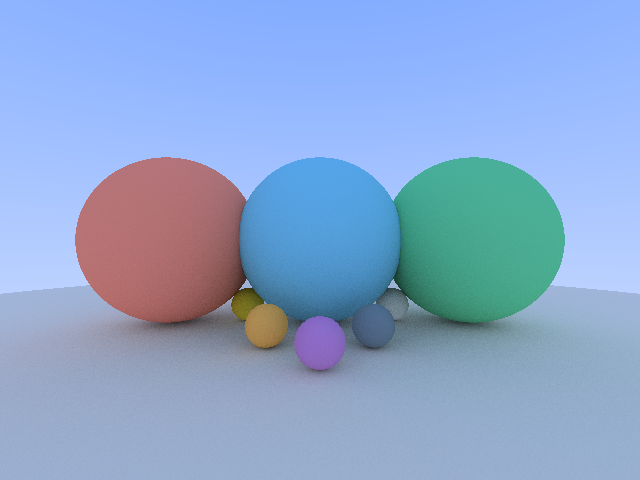
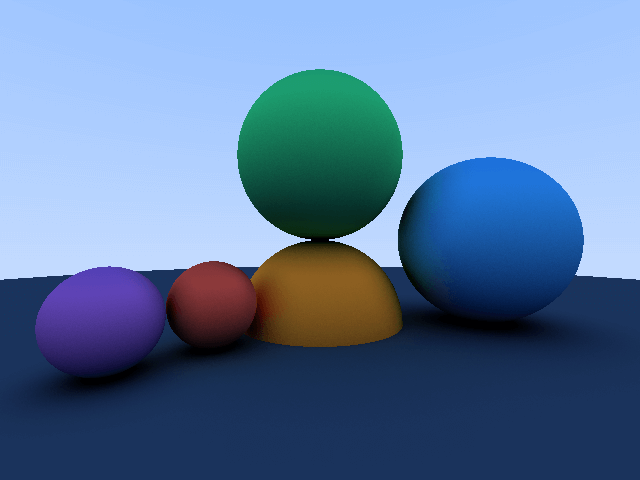
Refactor

diff --git a/main.c b/main.c
@@ -16,14 +16,32 @@
 #define VPORT_HEIGHT (VPORT_WIDTH/ASPECT_RATIO)
 
 #define FOCAL_LENGTH 1.0
-#define SAMPLES_PER_PIXEL 500
-#define MAX_HITS 5
+#define SAMPLES_PER_PIXEL 1000
+#define MAX_DEPTH 100
 
 #define ARR_LEN(a) (sizeof(a)/sizeof(a[0]))
 
 #define COLOR_R(hex) ((hex>>16)&0xFF)
 #define COLOR_G(hex) ((hex>> 8)&0xFF)
 #define COLOR_B(hex) ((hex>> 0)&0xFF)
+
+#define COLOR_TO_VEC3(r, g, b) ((Vec3){.x=r,.y=g,.z=b})
+#define HEX_TO_VEC3(hex) COLOR_TO_VEC3(COLOR_R(hex)/255.0,COLOR_G(hex)/255.0,COLOR_B(hex)/255.0)
+#define COLOR_BLACK COLOR_TO_VEC3(0.0,0.0,0.0)
+#define COLOR_WHITE COLOR_TO_VEC3(1.0,1.0,1.0)
+#define COLOR_RED COLOR_TO_VEC3(1.0,0.0,0.0)
+#define COLOR_GREEN COLOR_TO_VEC3(0.0,1.0,0.0)
+#define COLOR_BLUE COLOR_TO_VEC3(0.0,0.0,1.0)
+
+#define COLOR_EMERALD HEX_TO_VEC3(0x2ecc71)
+#define COLOR_CARROT HEX_TO_VEC3(0xe67e22)
+#define COLOR_PETER_RIVER HEX_TO_VEC3(0x3498db)
+#define COLOR_ALIZARIN HEX_TO_VEC3(0xe74c3c)
+#define COLOR_WET_ASPHALT HEX_TO_VEC3(0x34495e)
+#define COLOR_AMETHYST HEX_TO_VEC3(0x9b59b6)
+
+#define make_sphere(_x, _y, _z, r, c) ((Sphere){.center=(Vec3){.x=_x,.y=_y,.z=_z},.radius=r,.color=c})
+#define make_hittable(o, t) ((Hittable){.obj=o,.type=t})
 
 #define EPSILON 0.0000001
 
@@ -43,105 +61,139 @@ void ray_print(Ray r) {
     );
 }
 
+Vec3 random_in_unit_sphere() {
+    while (true) {
+        Vec3 v =  vec3_random(-1.0, 1.0);
+        if (vec3_len_sqr(v) < 1) {
+            return v;
+        }
+    }
+}
+
+Vec3 random_unit_vector() {
+    return vec3_as_unit(random_in_unit_sphere());
+}
+
+Vec3 random_on_surface(Vec3 normal) {
+    Vec3 v = random_unit_vector();
+    if (vec3_dot(v, normal) > 0.0) {
+        // In the same hemisphere as normal
+        return v;
+    } else {
+        return vec3_mult(v, -1.0);
+    }
+}
+
 typedef struct {
     Vec3 center;
-    double r;
-    uint32_t color;
+    double radius;
+    Vec3 color;
 } Sphere;
 
-#define make_sphere(_x, _y, _z, _r, _c) (Sphere){.center=(Vec3){.x=_x, .y=_y, .z=_z}, .r=_r, .color=_c}
+typedef enum {
+    SPHERE
+} HittableType;
 
-Vec3 vec3_random_unit() {
-    return vec3_as_unit(vec3_random(-1.0, 1.0));
-}
+typedef struct {
+    HittableType type;
+    void* obj;
+} Hittable;
 
-Vec3 vec3_on_surface(Vec3 v, Vec3 n) {
-    if (vec3_dot(v, n) > 0.0) return v;
-    return vec3_mult(v, -1.0);
-}
+typedef struct {
+    Hittable **hittables;
+    size_t count;
+} Hittables;
 
-Vec3 vec3_random_unit_on_surface(Vec3 n) {
-    return vec3_on_surface(vec3_random_unit(), n);
-}
+typedef struct {
+    Vec3 point; // Hit point
+    Vec3 normal; // Hit normal
+    double t; // Distance from ray origin
+    Hittable *hittable;
+} HitRecord;
 
-Vec3 vec3_color_blend(Vec3 a, Vec3 b) {
-    Vec3 r;
-    r.x = sqrt(a.x * b.x);
-    r.y = sqrt(a.y * b.y);
-    r.z = sqrt(a.z * b.z);
-    return r;
-}
+bool hit_sphere(Sphere *sphere, Ray *ray, HitRecord *hit_record, double t_min, double t_max) {
+    Vec3 oc = vec3_sub(ray->origin, sphere->center);
+    double a = vec3_len_sqr(ray->direction);
+    double half_b = vec3_dot(oc, ray->direction);
+    double c = vec3_len_sqr(oc) - (sphere->radius * sphere->radius);
+    double discriminant = half_b*half_b - a*c;
+    if (discriminant < 0) return false;
 
-bool hit_sphere(Sphere sphere, Ray ray, RayHit *ray_hit) {
-    Vec3 oc = vec3_sub(ray.origin, sphere.center);
-    double a = vec3_dot(ray.direction, ray.direction);
-    double b = 2.0 * vec3_dot(oc, ray.direction);
-    double c = vec3_dot(oc, oc) - sphere.r * sphere.r;
-    // discriminant
-    double d = b * b - 4 * a * c;
-
-    if (d < EPSILON) {
+    double sqrt_d = sqrt(discriminant);
+    double t1 = (-half_b - sqrt_d)/a;
+    double t2 = (-half_b + sqrt_d)/a;
+    if (t_min <= t1 && t1 <= t_max && t_min <= t2 && t2 <= t_max) {
+        // Both t within range
+        hit_record->t = t1 < t2 ? t1 : t2;
+    } else if (t_min <= t1 && t1 <= t_max) {
+        // Only t1 in range
+        hit_record->t = t1;
+    } else if (t_min <= t2 && t2 <= t_max) {
+        // Only t2 in range
+        hit_record->t = t2;
+    } else {
+        // Neither t1, nor t2 is in range
         return false;
     }
-    // distance on ray
-    double t = (-b - sqrt(d)) / (2.0 * a);
-    if (t < EPSILON) {
-        return false;
+
+    hit_record->point = ray_at(*ray, hit_record->t);
+    Vec3 outward_normal = vec3_div(vec3_sub(hit_record->point, sphere->center), sphere->radius);
+    if (vec3_dot(ray->direction, outward_normal) < 0) {
+        // Ray hitting from outside
+        hit_record->normal = outward_normal;
+    } else {
+        // Ray hitting from inside
+        hit_record->normal = vec3_mult(outward_normal, -1.0);
     }
-
-    // point on ray
-    ray_hit->t = t;
-    ray_hit->point = ray_at(ray, t);
-    // hit normal facing outwards
-    ray_hit->normal = vec3_div(vec3_sub(ray_hit->point, sphere.center), sphere.r);
-    // ray should be hitting outside of the sphere
-    assert(vec3_dot(ray.direction, ray_hit->normal) < 0.0);
-
     return true;
 }
 
-Vec3 get_ray_color(Ray ray, Sphere spheres[], size_t spheres_n, size_t max_hits) {
-    if (max_hits == 0) {
-        return (Vec3){.x=0.0, .y=0.0, .z=0.0};
+bool hit_one(Hittable* hittable, Ray *ray, HitRecord *hit_record, double t_min, double t_max) {
+    switch (hittable->type)
+    {
+    case SPHERE:
+        return hit_sphere((Sphere*)hittable->obj, ray, hit_record, t_min, t_max);
     }
-    RayHit ray_hit;
-    size_t sphere_i;
-    bool hit = false;
-    for (size_t i = 0; i < spheres_n; ++i) {
-        RayHit tmp_ray_hit;
-        if (hit_sphere(spheres[i], ray, &tmp_ray_hit)) {
-            if (!hit || tmp_ray_hit.t < ray_hit.t) {
-                ray_hit.t = tmp_ray_hit.t;
-                ray_hit.normal = tmp_ray_hit.normal;
-                ray_hit.point = tmp_ray_hit.point;
-                hit = true;
-                sphere_i = i;
-            }
+    exit(1);
+}
+
+bool hit(Hittables *hittables, Ray *ray, HitRecord *hit_record, double t_min, double t_max) {
+    HitRecord tmp_hit_record;
+    double closest = t_max;
+    bool did_hit = false;
+    for (size_t i = 0; i < hittables->count; ++i) {
+        Hittable *hittable = hittables->hittables[i];
+        if (hit_one(hittable, ray, &tmp_hit_record, t_min, closest)) {
+            did_hit = true;
+            hit_record->normal = tmp_hit_record.normal;
+            hit_record->point = tmp_hit_record.point;
+            hit_record->t = tmp_hit_record.t;
+            hit_record->hittable = hittable;
+            closest = tmp_hit_record.t;
         }
     }
+    return did_hit;
+}
 
-    if (hit) {
-        Vec3 my_color = (Vec3) {
-            // .x=0.5 * (ray_hit.normal.x + 1),
-            // .y=0.5 * (ray_hit.normal.y + 1),
-            // .z=0.5 * (ray_hit.normal.z + 1),
-            .x=COLOR_R(spheres[sphere_i].color)/255.0,
-            .y=COLOR_G(spheres[sphere_i].color)/255.0,
-            .z=COLOR_B(spheres[sphere_i].color)/255.0,
-        };
-        Vec3 reflection = vec3_random_unit_on_surface(ray_hit.normal);
-        // Vec3 reflection = ray_hit.normal;
-        Ray random_ray = (Ray){.origin=ray_hit.point, reflection};
-        Vec3 ray_color = get_ray_color(random_ray, spheres, spheres_n, max_hits - 1);
-        // return vec3_mult(ray_color, 0.5);
-        return vec3_color_blend(my_color, ray_color);
+Vec3 ray_color(Ray *ray, Hittables *hittables, size_t depth) {
+    if (depth == 0) return COLOR_BLACK;
+
+    HitRecord hit_record;
+    if (hit(hittables, ray, &hit_record, EPSILON, 100.0)) {
+        // Lambertian Reflection
+        Vec3 direction = vec3_add(hit_record.normal, random_on_surface(hit_record.normal));
+        Ray new_ray = (Ray){.origin=hit_record.point, .direction=direction};
+        Sphere *sphere = (Sphere*)hit_record.hittable->obj;
+        return vec3_mult_vec3(sphere->color, ray_color(&new_ray, hittables, depth - 1));
     }
-    double a = 0.5 * (ray.direction.y + 1.0);
-    return (Vec3) {
-        .x=((1.0-a) + a * 0.4),
-        .y=((1.0-a) + a * 0.6),
-        .z=((1.0-a) + a * 1.0),
-    };
+
+    Vec3 ray_direction_unit = vec3_as_unit(ray->direction);
+    double a = 0.5 * (ray_direction_unit.y + 1.0);
+    return COLOR_TO_VEC3(
+        (1.0 - a) + a * 0.5,
+        (1.0 - a) + a * 0.7,
+        (1.0 - a) + a * 1.0
+    );
 }
 
 int main() {
@@ -191,23 +243,30 @@ int main() {
         )
     );
 
-    Sphere spheres[] = {
-        make_sphere(-0.9, 0.0, -1.0, 0.5, 0xe74c3c),
-        make_sphere( 0.0, 0.0, -1.0, 0.5, 0x3498db),
-        make_sphere( 0.9, 0.0, -1.0, 0.5, 0x27ae60),
-
-        make_sphere(-0.45, -0.4,  -1.0, 0.1, 0xf1c40f),
-        make_sphere(-0.25, -0.4,  -0.5, 0.1, 0xe67e22),
-        make_sphere(  0.0, -0.4, -0.25, 0.1, 0x8e44ad),
-        make_sphere( 0.25, -0.4,  -0.5, 0.1, 0x34495e),
-        make_sphere( 0.45, -0.4,  -1.0, 0.1, 0xecf0f1),
-
-        make_sphere( 0.0, -50.5, -1.0, 50.0, 0xbababa)
+    Sphere sphere1 = make_sphere( 0.0,    0.5, -1.0,   0.5, COLOR_EMERALD);
+    Sphere sphere2 = make_sphere( 0.0,   -0.5, -1.0,   0.5, COLOR_CARROT);
+    Sphere sphere3 = make_sphere( 1.0,    0.0, -1.0,   0.5, COLOR_PETER_RIVER);
+    Sphere sphere4 = make_sphere(-0.5,   -0.3, -0.5,   0.2, COLOR_ALIZARIN);
+    Sphere sphere5 = make_sphere(-0.8,   -0.3, -0.2,   0.2, COLOR_AMETHYST);
+    Sphere sphere6 = make_sphere( 0.0, -100.5, -1.0, 100.0, COLOR_WET_ASPHALT);
+    Hittable hittable1 = make_hittable(&sphere1, SPHERE);
+    Hittable hittable2 = make_hittable(&sphere2, SPHERE);
+    Hittable hittable3 = make_hittable(&sphere3, SPHERE);
+    Hittable hittable4 = make_hittable(&sphere4, SPHERE);
+    Hittable hittable5 = make_hittable(&sphere5, SPHERE);
+    Hittable hittable6 = make_hittable(&sphere6, SPHERE);
+    Hittable *hittable[] = {
+        &hittable1,
+        &hittable2,
+        &hittable3,
+        &hittable4,
+        &hittable5,
+        &hittable6
     };
-    size_t spheres_n = ARR_LEN(spheres);
+    Hittables hittables = (Hittables){.hittables=hittable, .count=ARR_LEN(hittable)};
 
     for (size_t y = 0; y < IMAGE_HEIGHT; ++y) {
-        printf("Line %d/%d\n", y + 1, IMAGE_HEIGHT);
+        if (y % 10 == 9) printf("Image line %lu/%d\n", y + 1, IMAGE_HEIGHT);
         for (size_t x = 0; x < IMAGE_WIDTH; ++x) {
             Vec3 pixel_center = vec3_add3(
                 pixel_00,
@@ -216,19 +275,20 @@ int main() {
             );
 
             Vec3 ray_direction = vec3_sub(pixel_center, camera);
-            Vec3 ray_direction_unit = vec3_as_unit(ray_direction);
 
-            Ray ray = (Ray){.origin=camera, .direction=ray_direction_unit};
+            Ray ray = (Ray){.origin=camera, .direction=ray_direction};
 
-            Vec3 color = (Vec3){0};
-            for (size_t i = 0; i < SAMPLES_PER_PIXEL; i++) {
-                color = vec3_add(color, get_ray_color(ray, spheres, spheres_n, MAX_HITS));
+            Vec3 pixel = COLOR_BLACK;
+            for (size_t i = 0; i < SAMPLES_PER_PIXEL; ++i) {
+                Vec3 color = ray_color(&ray, &hittables, MAX_DEPTH);
+                pixel.x += color.x;
+                pixel.y += color.y;
+                pixel.z += color.z;
             }
-            color = vec3_div(color, (double)SAMPLES_PER_PIXEL);
 
-            int r = color.x * 255.0;
-            int g = color.y * 255.0;
-            int b = color.z * 255.0;
+            int r = (pixel.x / SAMPLES_PER_PIXEL) * 255.0;
+            int g = (pixel.y / SAMPLES_PER_PIXEL) * 255.0;
+            int b = (pixel.z / SAMPLES_PER_PIXEL) * 255.0;
 
             assert(0 <= r && r <= 255);
             assert(0 <= g && g <= 255);

diff --git a/vec3.h b/vec3.h
@@ -27,7 +27,7 @@ Vec3 vec3_add3(Vec3 a, Vec3 b, Vec3 c);
 Vec3 vec3_sub(Vec3 a, Vec3 b);
 
 /*
-  Subtract vectors b and c from a, compoent by component
+  Subtract vectors b and c from a, component by component
 */
 Vec3 vec3_sub3(Vec3 a, Vec3 b, Vec3 c);
 
@@ -35,6 +35,12 @@ Vec3 vec3_sub3(Vec3 a, Vec3 b, Vec3 c);
   Multiply each component of vector by a constant
 */
 Vec3 vec3_mult(Vec3 a, double x);
+
+/*
+  Multiply each component of a vector with
+  corresponding component of b vector
+*/
+Vec3 vec3_mult_vec3(Vec3 a, Vec3 b);
 
 /*
   Divide each component of vector by a constant

diff --git a/test.c b/test.c
@@ -52,6 +52,13 @@ void test_vec3() {
     f_assert_eq(e.y, r.y);
     f_assert_eq(e.z, r.z);
 
+    // Multiplication with another vector
+    e = (Vec3){.x=6.15, .y=10.5, .z=15.05};
+    r = vec3_mult_vec3(a, b);
+    f_assert_eq(e.x, r.x);
+    f_assert_eq(e.y, r.y);
+    f_assert_eq(e.z, r.z);
+
     // Division
     e = (Vec3){.x=5.0, .y=8.333333, .z=11.666667};
     r = vec3_div(a, x);

diff --git a/vec3.c b/vec3.c
@@ -42,6 +42,14 @@ Vec3 vec3_mult(Vec3 a, double x) {
     return r;
 }
 
+Vec3 vec3_mult_vec3(Vec3 a, Vec3 b) {
+    Vec3 r;
+    r.x = a.x * b.x;
+    r.y = a.y * b.y;
+    r.z = a.z * b.z;
+    return r;
+}
+
 Vec3 vec3_div(Vec3 a, double x) {
     Vec3 r;
     r.x = a.x / x;

diff --git a/README.md b/README.md
@@ -4,4 +4,6 @@
 
 Simple raytraced scene based on [RayTracing In One Weekend](https://raytracing.github.io/books/RayTracingInOneWeekend.html).
 
+Image with 1000 samples per pixel and up to 100 ray bounces.
+
 ![An image](image.png)
